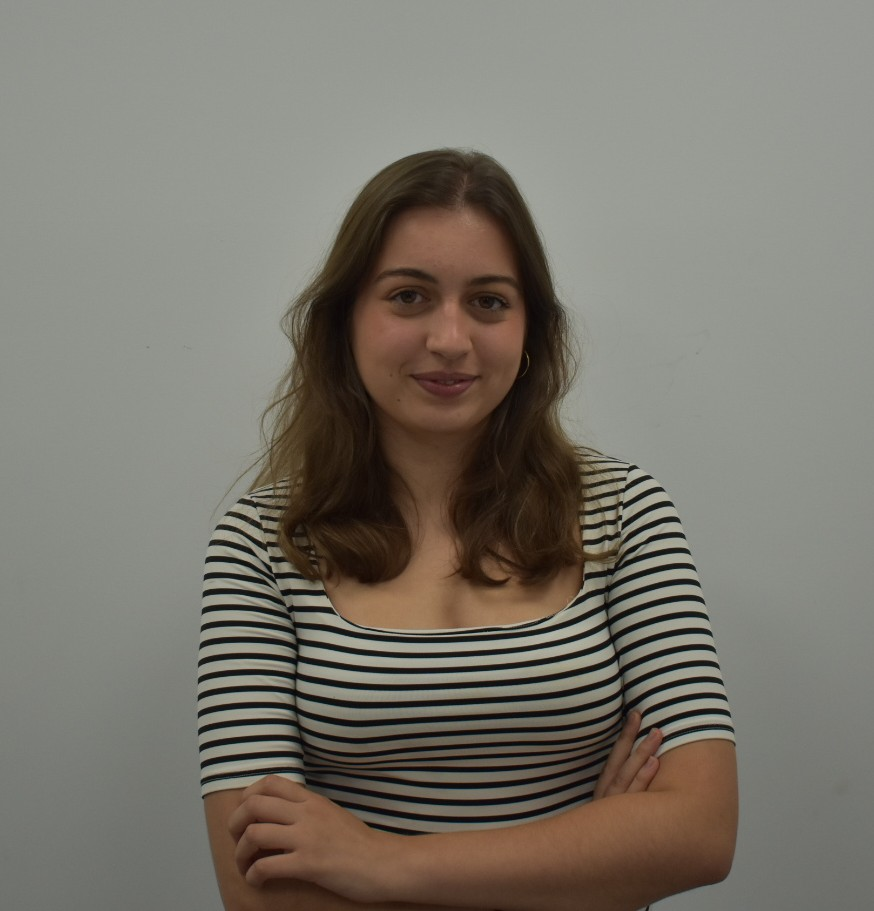
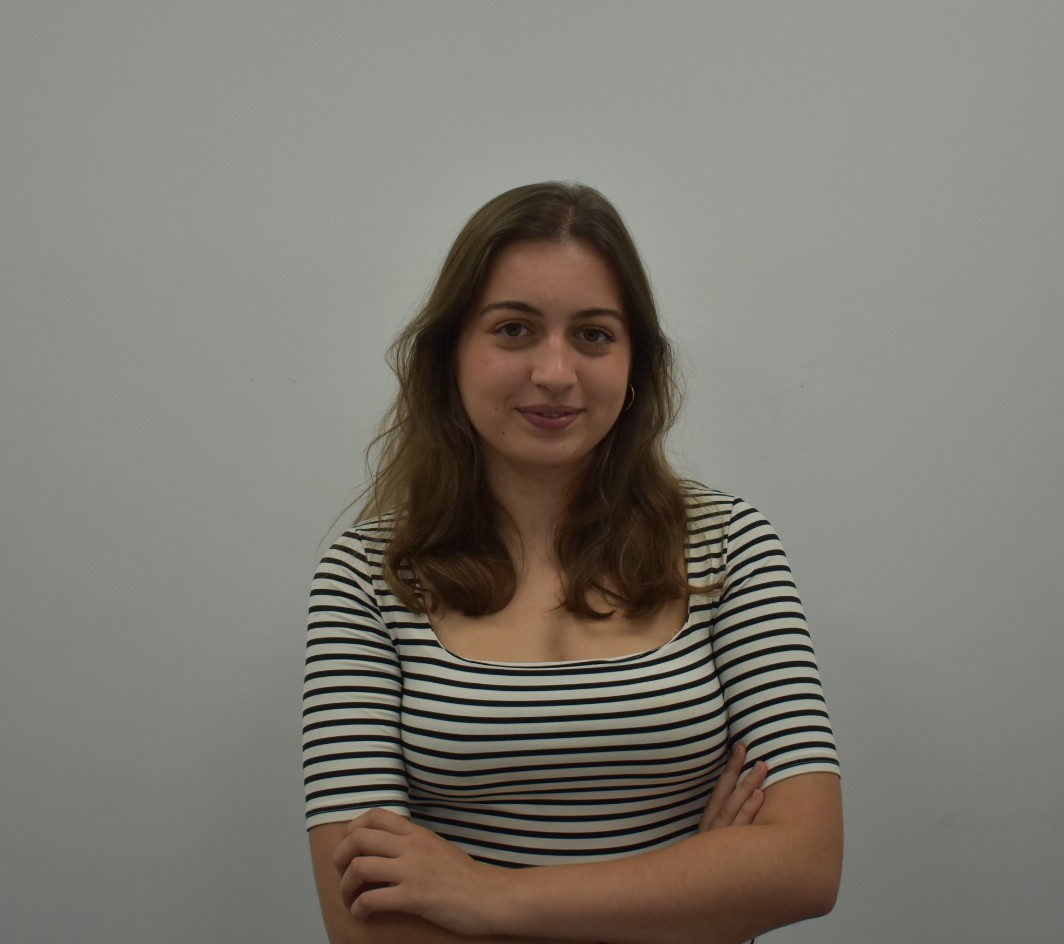
Added: inscription form

Changed region(s): [[0.2162, 0.1537, 0.865, 1.0], [0.3707, 0.9528, 0.4016, 0.9835]]

diff --git a/src/styles/Eventos.css b/src/styles/Eventos.css
@@ -72,6 +72,7 @@
 
 .eventos-header {
     display: flex;
+    font-size: 4rem;
     flex-direction: column;
     justify-content: center;
     align-items: center;
@@ -82,7 +83,7 @@
 
 .eventos-section h1 {
     margin-top: 5rem;
-    font-size: 3rem;
+    font-size: 5rem;
     margin-bottom: 2rem;
     position: relative;
     z-index: 2;
@@ -205,6 +206,16 @@
     
     .eventos-section h1 {
         font-size: 2.5rem;
+    }
+
+    .register-startcamp {
+    font-size: 1.2rem;
+    padding: 14px 40px;
+    margin-top: 20px;
+    }
+
+    .register-startcamp:hover {
+        transform: scale(1.05) translateY(-1px);
     }
 }
 

diff --git a/src/pages/Eventos.js b/src/pages/Eventos.js
@@ -120,7 +120,9 @@ function Eventos() {
                             </div>
                         </div>
                         <p className='countdown-date'>22 y 23 de Noviembre de 2025</p>
-                        <button className='register-startcamp'>Apúntate ya</button>
+                        <a href="https://pci.jotform.com/form/253063919904058" target="_blank" rel="noopener noreferrer">
+                            <button className='register-startcamp'>¡Apúntate ya!</button>
+                        </a>
                     </div>
                 </div>
             </section>
